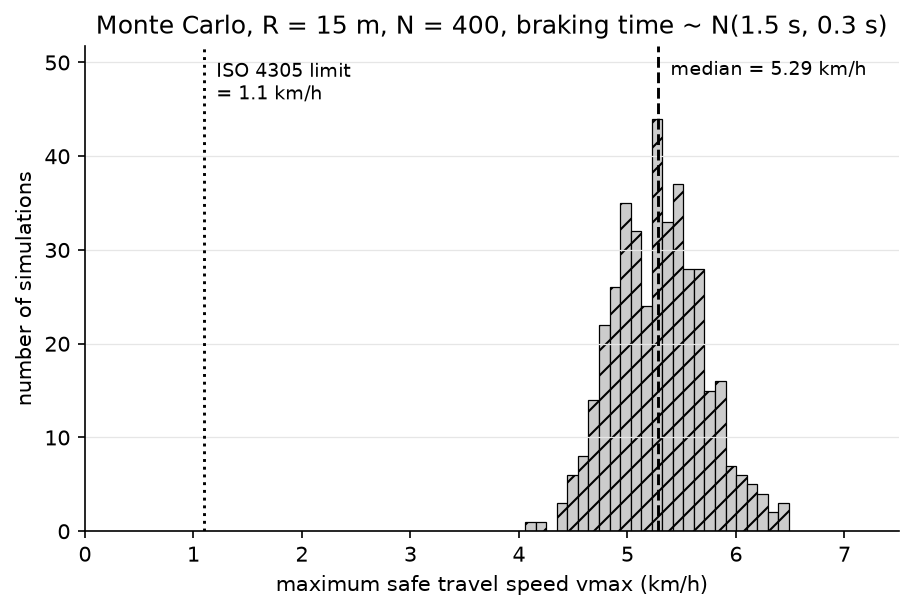
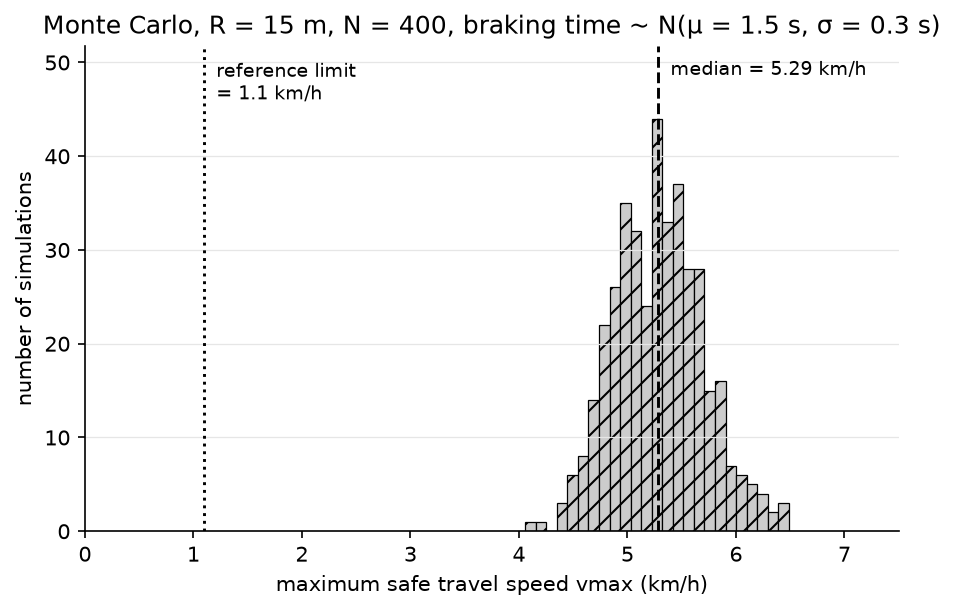
Figures: legend placement, mu/sigma notation, reference-limit label
- braking_trajectory.png: legend moved to the lower left so it no longer
  overlaps the stable curve
- monte_carlo.png: title reads N(mu = 1.5 s, sigma = 0.3 s); the 1.1 km/h line
  is labelled "reference limit", consistent with the README

Claude-Session: https://claude.ai/code/session_018jjQ7pTfRje5rQPbioexsg

diff --git a/make_figures.py b/make_figures.py
@@ -103,13 +103,13 @@ def plot_monte_carlo(vals, path):
     ymax = ax.get_ylim()[1] * 1.12
     ax.set_ylim(top=ymax)
     ax.text(median, ymax * 0.97, f"  median = {median:.2f} km/h", va="top", ha="left", fontsize=9)
-    ax.text(ISO_LIMIT_KMH, ymax * 0.97, f"  ISO 4305 limit\n  = {ISO_LIMIT_KMH} km/h", va="top", ha="left", fontsize=9)
+    ax.text(ISO_LIMIT_KMH, ymax * 0.97, f"  reference limit\n  = {ISO_LIMIT_KMH} km/h", va="top", ha="left", fontsize=9)
 
     ax.set_xlim(0, np.ceil(vmax_kmh.max()) + 0.5)
     ax.set_xlabel("maximum safe travel speed vmax (km/h)")
     ax.set_ylabel("number of simulations")
     ax.set_title(f"Monte Carlo, R = {vals['radius'][I_MC]:.0f} m, N = {N_MC}, "
-                 f"braking time ~ N({T_MEAN} s, {T_STD} s)")
+                 f"braking time ~ N(μ = {T_MEAN} s, σ = {T_STD} s)")
     ax.grid(True, axis="y", color="0.9", lw=0.6)
 
     fig.savefig(path, dpi=150, bbox_inches="tight")
